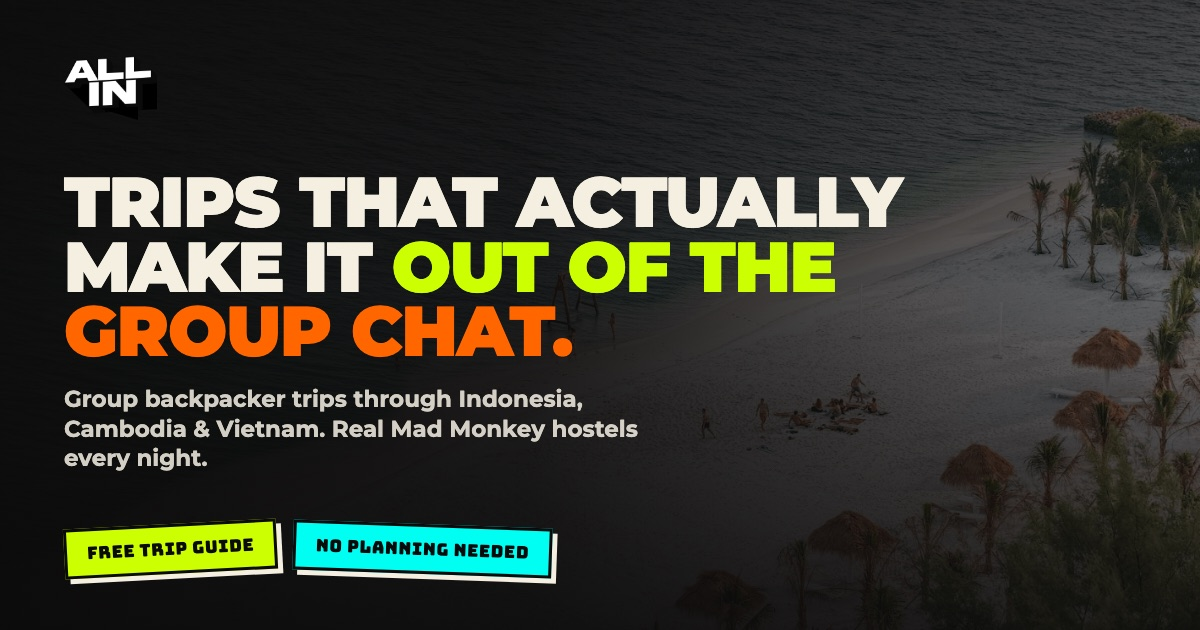
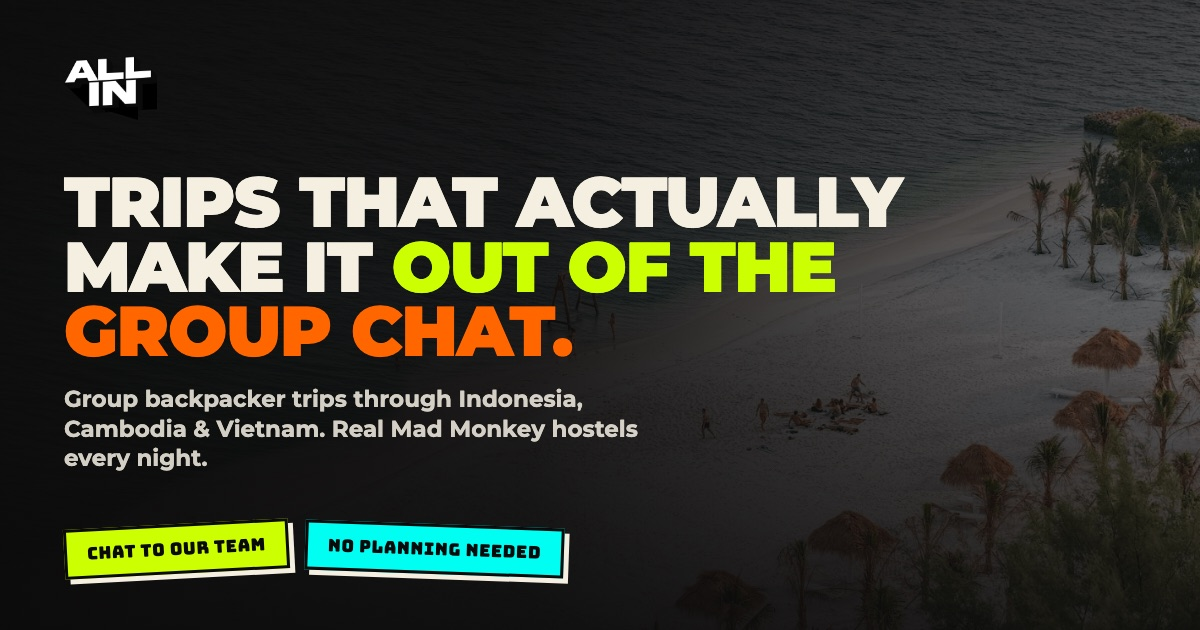
Align title, description and share card with the live copy
The form was repositioned from "get the free trip guide" to "chat to our ALL
IN team", but the page title, meta description and the share card sticker all
still promised a free trip guide. That is what showed in Google and on the ad
card, so the click and the landing page disagreed.

- Retitle to "Chat to the Team" across title, og:title and twitter:title
- Rewrite the description to match what the form actually offers, 151 chars
- Rebuild og-image.jpg with the sticker reading CHAT TO OUR TEAM

Changed region(s): [[0.0617, 0.8143, 0.4933, 0.9349]]

diff --git a/index.html b/index.html
@@ -4,10 +4,10 @@
     <meta charset="UTF-8" />
     <meta name="viewport" content="width=device-width, initial-scale=1.0, viewport-fit=cover" />
 
-    <title>ALL IN Trips by Mad Monkey · Get the Free Trip Guide</title>
+    <title>ALL IN Trips by Mad Monkey · Chat to the Team</title>
     <meta
       name="description"
-      content="Group backpacker trips through Indonesia, Cambodia and Vietnam. Get the free ALL IN trip guide: every route, every date, what's included."
+      content="Group backpacker trips through Indonesia, Cambodia and Vietnam. Tell us where you want to go and a real human will reply with routes, dates and prices."
     />
     <meta name="author" content="Mad Monkey Hostels" />
     <meta name="robots" content="index, follow" />
@@ -30,10 +30,10 @@
     <meta property="og:site_name" content="Mad Monkey Hostels" />
     <meta property="og:locale" content="en_GB" />
     <meta property="og:url" content="%SITE_URL%" />
-    <meta property="og:title" content="ALL IN Trips by Mad Monkey · Get the Free Trip Guide" />
+    <meta property="og:title" content="ALL IN Trips by Mad Monkey · Chat to the Team" />
     <meta
       property="og:description"
-      content="Group backpacker trips through Indonesia, Cambodia and Vietnam. Get the free ALL IN trip guide: every route, every date, what's included."
+      content="Group backpacker trips through Indonesia, Cambodia and Vietnam. Tell us where you want to go and a real human will reply with routes, dates and prices."
     />
     <meta property="og:image" content="%SITE_URL%/og-image.jpg" />
     <meta property="og:image:secure_url" content="%SITE_URL%/og-image.jpg" />
@@ -46,10 +46,10 @@
     />
 
     <meta name="twitter:card" content="summary_large_image" />
-    <meta name="twitter:title" content="ALL IN Trips by Mad Monkey · Get the Free Trip Guide" />
+    <meta name="twitter:title" content="ALL IN Trips by Mad Monkey · Chat to the Team" />
     <meta
       name="twitter:description"
-      content="Group backpacker trips through Indonesia, Cambodia and Vietnam. Get the free ALL IN trip guide: every route, every date, what's included."
+      content="Group backpacker trips through Indonesia, Cambodia and Vietnam. Tell us where you want to go and a real human will reply with routes, dates and prices."
     />
     <meta name="twitter:image" content="%SITE_URL%/og-image.jpg" />
     <meta
